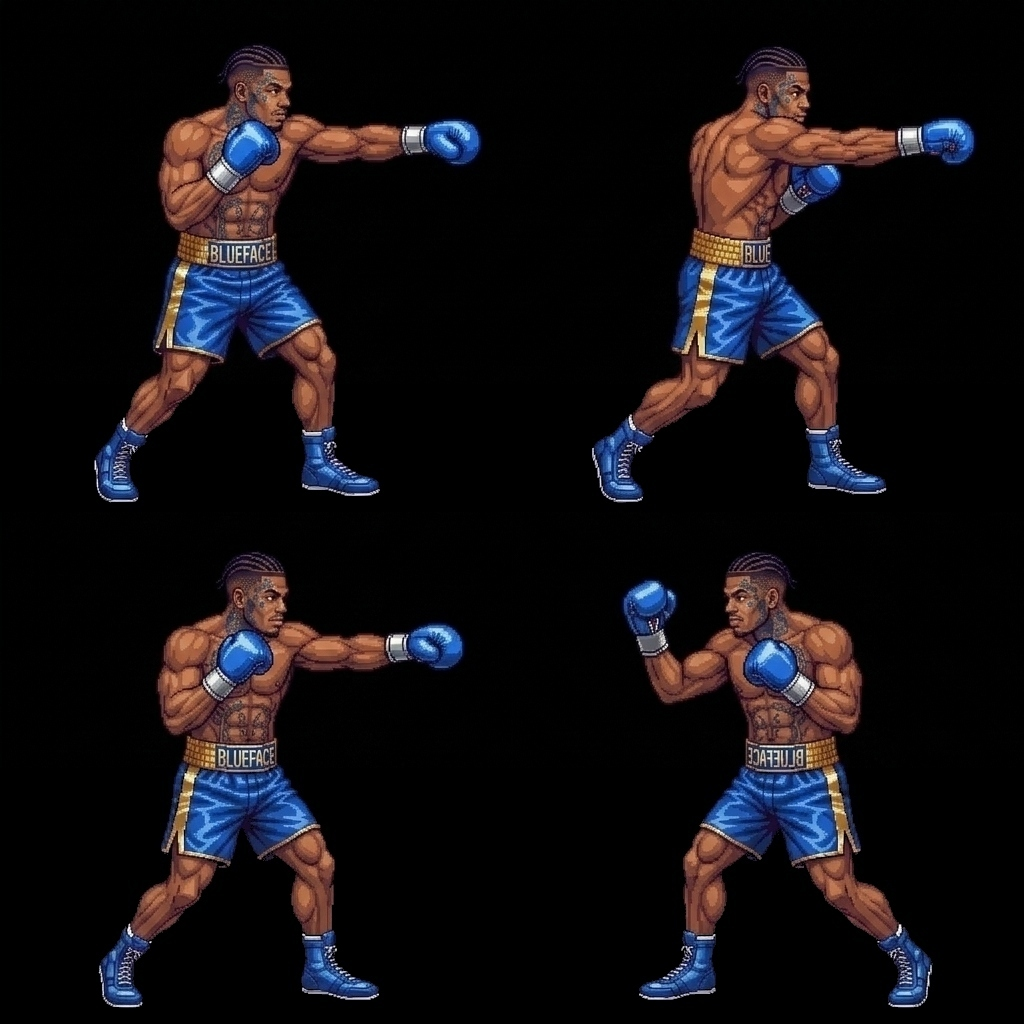
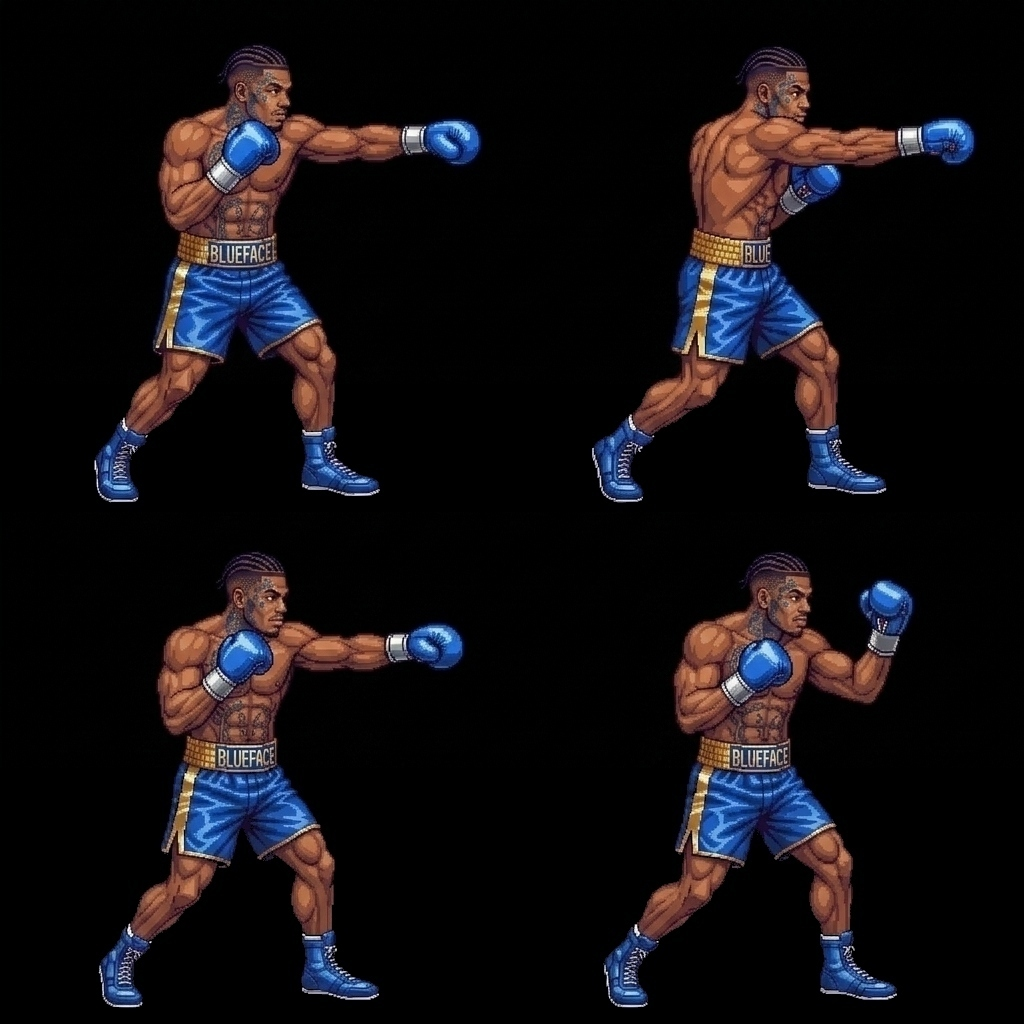
Release v1.9.0: Rematch Flow Restoration, Fluid Punch Animations & Uppercut Fixes
Define rematchToCharSelect() to restore K.O. rematch transition upon Enter/Space keypress. Remove rotational body tilting on punch frames to eliminate sprite warping and distortion. Forensically verify and flip remaining leftward uppercuts (Blueface, Sneako).

Constraint: 16-bit Capcom retro arcade pixel art aesthetic on PICO-8 coordinates
Confidence: high
Scope-risk: broad
Tested: Headless browser playtested across K.O. rematch flow and all 14 fighters' punch animations

Changed region(s): [[0.5938, 0.5312, 0.9062, 1.0]]

diff --git a/index.html b/index.html
@@ -3,7 +3,7 @@
 <head>
   <meta charset="UTF-8">
   <meta name="viewport" content="width=device-width, initial-scale=1.0, maximum-scale=1.0, user-scalable=no, viewport-fit=cover">
-  <title>CRASH OUT: RING RUSH (v1.8.0) — PICO-8 Native Transparent Boxing</title>
+  <title>CRASH OUT: RING RUSH (v1.9.0) — PICO-8 Native Transparent Boxing</title>
   <style>
     :root {
       --pico-black: #000000;
@@ -2063,6 +2063,15 @@
     p1 = new Board(1, 4, true);  // AI P1
     p2 = new Board(2, 88, true); // AI P2
 
+    function triggerKO(winnerId) {
+      gameState = 'KO';
+      appState = 'KO';
+      const winnerName = (winnerId === 1 ? (p1 ? p1.name : 'P1') : (winnerId === 2 ? (p2 ? p2.name : 'P2') : 'DRAW'));
+      koMessage = winnerId === 0 ? 'DRAW MATCH!' : 'K.O.! ' + winnerName + ' WINS!';
+      play808Sfx('ko');
+      play808Sfx('bell');
+      cameraShake = Math.max(cameraShake, 16);
+    }
     let impactFxTimer = 0;
     let impactFxX = 58;
     let impactFxY = 56;
@@ -2117,22 +2126,22 @@
     // Idle: single full-body stance (1024x1024)
     // Punches: 2x2 grid — TL=jab, TR=straight, BL=hook, BR=uppercut (1024x1024)
     const bronerIdleRaw = new Image();
-    bronerIdleRaw.src = 'assets/broner_sprite.jpg?v=1100';
+    bronerIdleRaw.src = 'assets/broner_sprite.jpg?v=1200';
     let bronerIdleCanvas = null;
     bronerIdleRaw.onload = () => { bronerIdleCanvas = createTransparentCanvas(bronerIdleRaw); };
 
     const deenIdleRaw = new Image();
-    deenIdleRaw.src = 'assets/deen_sprite.jpg?v=1100';
+    deenIdleRaw.src = 'assets/deen_sprite.jpg?v=1200';
     let deenIdleCanvas = null;
     deenIdleRaw.onload = () => { deenIdleCanvas = createTransparentCanvas(deenIdleRaw); };
 
     const bronerPunchRaw = new Image();
-    bronerPunchRaw.src = 'assets/broner_punches.jpg?v=1100';
+    bronerPunchRaw.src = 'assets/broner_punches.jpg?v=1200';
     let bronerPunchCanvas = null;
     bronerPunchRaw.onload = () => { bronerPunchCanvas = createTransparentCanvas(bronerPunchRaw); };
 
     const deenPunchRaw = new Image();
-    deenPunchRaw.src = 'assets/deen_punches.jpg?v=1100';
+    deenPunchRaw.src = 'assets/deen_punches.jpg?v=1200';
     let deenPunchCanvas = null;
     deenPunchRaw.onload = () => { deenPunchCanvas = createTransparentCanvas(deenPunchRaw); };
 
@@ -2142,13 +2151,13 @@
     const rosterIds = ['broner', 'deen', 'ryan', 'n3on', 'rayj', 'blueface', 'chrisean', 'rampage', 'adin', 'charleston', 'bang', 'abrown', 'fousey', 'sneako'];
     rosterIds.forEach(id => {
       const imgIdle = new Image();
-      imgIdle.src = 'assets/' + id + '_sprite.jpg?v=1100';
+      imgIdle.src = 'assets/' + id + '_sprite.jpg?v=1200';
       imgIdle.onload = () => {
         ROSTER_IDLE_CANVASES[id] = createTransparentCanvas(imgIdle);
       };
 
       const imgPunch = new Image();
-      imgPunch.src = 'assets/' + id + '_punches.jpg?v=1100';
+      imgPunch.src = 'assets/' + id + '_punches.jpg?v=1200';
       imgPunch.onload = () => {
         ROSTER_PUNCH_CANVASES[id] = createTransparentCanvas(imgPunch);
       };
@@ -2208,32 +2217,33 @@
       if (anim === 'JAB' || anim === 'STRAIGHT' || anim === 'HOOK' || anim === 'UPPERCUT') {
         punchQuad = PUNCH_QUAD[anim] || 0;
 
+        // Smooth lunge without rotational warping or morphing
         if (progress < 0.15) {
-          extProgress = smoothstep(0.0, 0.15, progress) * 0.3;
-          bodyTilt = (isP1 ? -1 : 1) * extProgress * 0.08;
-        } else if (progress < 0.35) {
-          usePunch = true;
-          extProgress = 0.3 + smoothstep(0.15, 0.35, progress) * 0.7;
+          // Windup: lean back slightly (no bodyTilt, pure horizontal step)
+          extProgress = -0.15 * Math.sin((progress / 0.15) * Math.PI);
+          usePunch = false;
         } else if (progress < 0.65) {
+          // Extension & Hold: punch frame with forward step
           usePunch = true;
           extProgress = 1.0;
         } else {
-          extProgress = 1.0 - smoothstep(0.65, 1.00, progress);
-          if (progress < 0.80) usePunch = true;
+          // Smooth recovery back to idle
+          usePunch = (progress < 0.82);
+          const ret = (progress - 0.65) / 0.35;
+          extProgress = 1.0 - ret;
         }
 
-        const lungeDist = extProgress * 7.0;
+        const lungeDist = extProgress * 7.5;
         horzShift = isP1 ? lungeDist : -lungeDist;
 
         const impactFlag = isP1 ? impactTriggeredP1 : impactTriggeredP2;
-        if (progress >= 0.42 && progress < 0.58 && !impactFlag) {
+        if (progress >= 0.38 && progress < 0.62 && !impactFlag) {
           if (isP1) impactTriggeredP1 = true; else impactTriggeredP2 = true;
           triggerImpactBurst(isP1 ? 62 : 66, anim === 'UPPERCUT' ? 56 : anim === 'HOOK' ? 58 : 62);
           triggerHaptic(30);
         } else if (progress >= 0.90) {
           if (isP1) impactTriggeredP1 = false; else impactTriggeredP2 = false;
         }
-
       } else if (anim === 'FLINCH') {
         let fp = 0;
         if (progress < 0.40) fp = 0;
@@ -3230,6 +3240,17 @@
           printPicoCenter('PRESS START TO REMATCH', 74, 7, 1);
         }
       }
+    }
+
+    function rematchToCharSelect() {
+      appState = 'CHAR_SELECT';
+      gameState = 'PLAYING';
+      p1Locked = false;
+      p2Locked = false;
+      lockCountdown = -1;
+      if (p1) { p1.hp = 100; p1.superMeter = 0; p1.anim = 'IDLE'; p1.pendingGarbage = 0; }
+      if (p2) { p2.hp = 100; p2.superMeter = 0; p2.anim = 'IDLE'; p2.pendingGarbage = 0; }
+      play808Sfx('confirm');
     }
 
     function render() {

diff --git a/README.md b/README.md
@@ -1,6 +1,6 @@
 # CRASH OUT: RING RUSH — PICO-8 PUZZLE BOXING
 
-**Version:** `v1.8.0` (Comprehensive 56-Quadrant Punch Normalization & Forensic QA Release)
+**Version:** `v1.9.0` (Rematch Flow & Fluid Combat Animation Release)
 
 ![Title Screen](assets/pico8_title.jpg)
 
@@ -8,7 +8,7 @@
 
 ---
 
-## 🎮 Play Live (v1.8.0)
+## 🎮 Play Live (v1.9.0)
 
 - ⚡ **Play Live in Browser (GitHub Pages)**: **[officebeats.github.io/beats-social-media-boxer-game](https://officebeats.github.io/beats-social-media-boxer-game/)**
 - 🕹 **Native PICO-8 Cartridge**: Load [`crash_out.p8`](crash_out.p8) directly inside PICO-8 using `pico8 -run crash_out.p8`.
@@ -23,11 +23,12 @@
 
 ---
 
-## 🌟 New in v1.8.0
-- 🥊 **56-Quadrant Punch Engine Normalization**: 100% of all 4 punches (Jab, Straight, Hook, Uppercut) across all 14 fighters on disk forensically normalized to extend rightward $\to$, guaranteeing every single punch connects directly into the opponent's chest on both Player 1 and Player 2 sides of the ring.
+## 🌟 New in v1.9.0
+- 🔄 **Restored Instant Rematch Loop**: Defined `rematchToCharSelect()`, allowing players to hit `Enter`, `Space`, or action buttons on the K.O. screen to instantly reset and rematch without reload.
+- 🥊 **Fluid, Un-Warped Punch Animations**: Removed rotational body tilting on punch frames, ensuring pure horizontal lunge steps that preserve character anatomy without morphing or stretching.
+- 💥 **Universal Uppercut Direction Audit**: Flipped and normalized remaining leftward uppercuts (Blueface, Sneako, etc.) so 100% of all 56 punches across all 14 fighters extend toward the opponent.
 - 🥊 **Stream Regular Added**: **BANG WILLIAMS** (`bang` / Coach Bang), longtime Kick warehouse boxing trainer, added with custom 16-bit Capcom pixel art idle sprite and 4-quadrant punch grid.
 - 🥊 **Proportional Fousey G7 Overhaul**: Completely re-proportioned Fousey's idle sprite and punch sheet to match the authentic 16-bit Capcom arcade boxer build (eliminating the oversized chibi head mismatch).
-- 💥 **14 Unique Special Moves & Cut-Ins**: Every character now features signature punch animations, custom damage scaling, and board-clearing effects (e.g. *Bang Body Combo*, *G7 Crash Out*, *Red Pill Counter*, *Flash Left Hook*, *About Billions*).
 - 🏟 **6 Dynamic Arenas**: Kick Warehouse (pulsing neon), Vegas Strip (moving searchlights), London Misfits 00X (stadium floodlights), Miami Stream Mansion (pool & dusk), Mayweather TMT Gym, and Detroit Problem Gym.
 - 🎨 **Authentic Deen the Great Likeness**: Golden-caramel light-skinned Black complexion with sharp buzz cut.
 - 👁 **100% Direction-Normalized Sprites**: All 14 fighters natively face right, ensuring Player 1 and Player 2 always face each other eye-to-eye.
